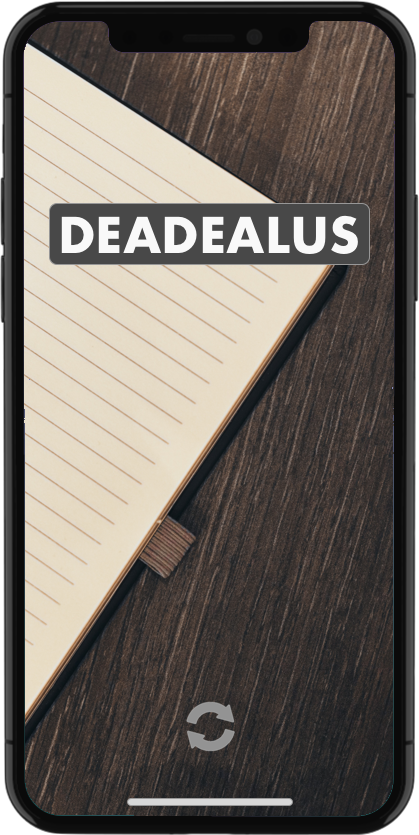
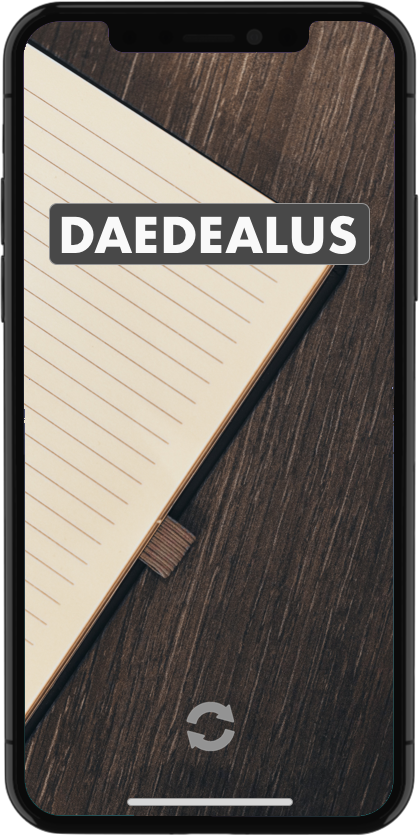
Small changes

diff --git a/html/landing.html b/html/landing.html
@@ -24,7 +24,7 @@
 	<div id="wrap">
 
 		<nav class="navbar navbar-expand-lg navbar-dark" id="navbar">
-		<a class="navbar-brand" href="#"><h1>DEADEALUS</h1></a>
+		<a class="navbar-brand" href="#"><h1>DAEDEALUS</h1></a>
 		<button class="navbar-toggler" type="button" data-toggle="collapse" data-target="#navbarSupportedContent" aria-controls="navbarSupportedContent" aria-expanded="false" aria-label="Toggle navigation">
    		<span class="navbar-toggler-icon"></span>
   		</button>
@@ -34,7 +34,6 @@
 		<ul class="navbar-nav mr-auto">
 			<a href="landing.html"><li class='active'><span>Home</span></li></a>
 			<a href="features.html"><li><span>Features</span></li></a>
-			<a href="pricing.html"><li><span>Pricing</span></li></a>
 			<a href="team.html"><li><span>Team</span></li></a>
 			<a href="business_features.html"><li><span>Business</span></li></a>
 		</ul>
@@ -52,7 +51,7 @@
 			</div>
 			<div class="col-sm">
 				<div class="text-center">
-				<p style="font-weight: bold; color: #fff; text-align: justify;">DEADEALUS is the #1 grossing app on the app store. With over 5000 different retailers on board, DEADEALUS is here to provide you a centralized environment to help you save money. Awarded Apple's pick for "Get Productive" and "Invaluable Utilities".</p>
+				<p style="font-weight: bold; color: #fff; text-align: justify;">DAEDEALUS is the #1 grossing app on the app store. With over 5000 different retailers on board, DAEDEALUS is here to provide you a centralized environment to help you save money. Awarded Apple's pick for "Get Productive" and "Invaluable Utilities".</p>
 				<h1 style="text-shadow: 0 0 2px; margin: 0.3em 0; text-transform: uppercase; color: #6cc7e2">Download Now!</h1>
 				<img class='img-fluid' width="35%" src="../img/app_store.png"><span style="padding: 0 10px"></span><img class='img-fluid' width="35%" src="../img/google_play.png">
 				</div>

diff --git a/html/pricing.html b/html/pricing.html
@@ -24,7 +24,7 @@
 	<div id="wrap">
 
 		<nav class="navbar navbar-expand-lg navbar-dark" id="navbar">
-		<a class="navbar-brand" href="#"><h1>DEADEALUS</h1></a>
+		<a class="navbar-brand" href="#"><h1>DAEDEALUS</h1></a>
 		<button class="navbar-toggler" type="button" data-toggle="collapse" data-target="#navbarSupportedContent" aria-controls="navbarSupportedContent" aria-expanded="false" aria-label="Toggle navigation">
    		<span class="navbar-toggler-icon"></span>
   		</button>
@@ -34,9 +34,9 @@
 		<ul class="navbar-nav mr-auto">
 			<a href="landing.html"><li><span>Home</span></li></a>
 			<a href="features.html"><li><span>Features</span></li></a>
-			<a href="pricing.html"><li class='active'><span>Pricing</span></li></a>
 			<a href="team.html"><li><span>Team</span></li></a>
-			<a href="business_features.html"><li><span>Business</span></li></a>
+			<a href="business_features.html"><li class='active'><span>Business</span></li></a>
+			<a href="pricing.html"><li class='active'><span>Pricing</span></li></a>
 		</ul>
 
 		</div>

diff --git a/html/business_features.html b/html/business_features.html
@@ -71,7 +71,7 @@
     <div id="wrap">
 
 		<nav class="navbar navbar-expand-lg navbar-dark" id="navbar">
-		<a class="navbar-brand" href="#"><h1>DEADEALUS</h1></a>
+		<a class="navbar-brand" href="#"><h1>DAEDEALUS</h1></a>
 		<button class="navbar-toggler" type="button" data-toggle="collapse" data-target="#navbarSupportedContent" aria-controls="navbarSupportedContent" aria-expanded="false" aria-label="Toggle navigation">
    		<span class="navbar-toggler-icon"></span>
   		</button>
@@ -81,9 +81,9 @@
 		<ul class="navbar-nav mr-auto">
 			<a href="landing.html"><li><span>Home</span></li></a>
 			<a href="features.html"><li><span>Features</span></li></a>
-			<a href="pricing.html"><li><span>Pricing</span></li></a>
 			<a href="team.html"><li><span>Team</span></li></a>
 			<a href="business_features.html"><li class='active'><span>Business</span></li></a>
+			<a href="pricing.html"><li><span>Pricing</span></li></a>
 		</ul>
 
 		</div>

diff --git a/html/features.html b/html/features.html
@@ -103,7 +103,7 @@
 	<div id="wrap">
 
 		<nav class="navbar navbar-expand-lg navbar-dark" id="navbar">
-		<a class="navbar-brand" href="#"><h1>DEADEALUS</h1></a>
+		<a class="navbar-brand" href="#"><h1>DAEDEALUS</h1></a>
 		<button class="navbar-toggler" type="button" data-toggle="collapse" data-target="#navbarSupportedContent" aria-controls="navbarSupportedContent" aria-expanded="false" aria-label="Toggle navigation">
    		<span class="navbar-toggler-icon"></span>
   		</button>
@@ -113,7 +113,6 @@
 		<ul class="navbar-nav mr-auto">
 			<a href="landing.html"><li><span>Home</span></li></a>
 			<a href="features.html"><li class='active'><span>Features</span></li></a>
-			<a href="pricing.html"><li><span>Pricing</span></li></a>
 			<a href="team.html"><li><span>Team</span></li></a>
 			<a href="business_features.html"><li><span>Business</span></li></a>
 		</ul>

diff --git a/html/team.html b/html/team.html
@@ -23,7 +23,7 @@
 	<div id="wrap">
 
 		<nav class="navbar navbar-expand-lg navbar-dark" id="navbar">
-		<a class="navbar-brand" href="#"><h1>DEADEALUS</h1></a>
+		<a class="navbar-brand" href="#"><h1>DAEDEALUS</h1></a>
 		<button class="navbar-toggler" type="button" data-toggle="collapse" data-target="#navbarSupportedContent" aria-controls="navbarSupportedContent" aria-expanded="false" aria-label="Toggle navigation">
    		<span class="navbar-toggler-icon"></span>
   		</button>
@@ -33,7 +33,6 @@
 		<ul class="navbar-nav mr-auto">
 			<a href="landing.html"><li><span>Home</span></li></a>
 			<a href="features.html"><li><span>Features</span></li></a>
-			<a href="pricing.html"><li><span>Pricing</span></li></a>
 			<a href="team.html"><li class='active'><span>Team</span></li></a>
 			<a href="business_features.html"><li><span>Business</span></li></a>
 		</ul>
